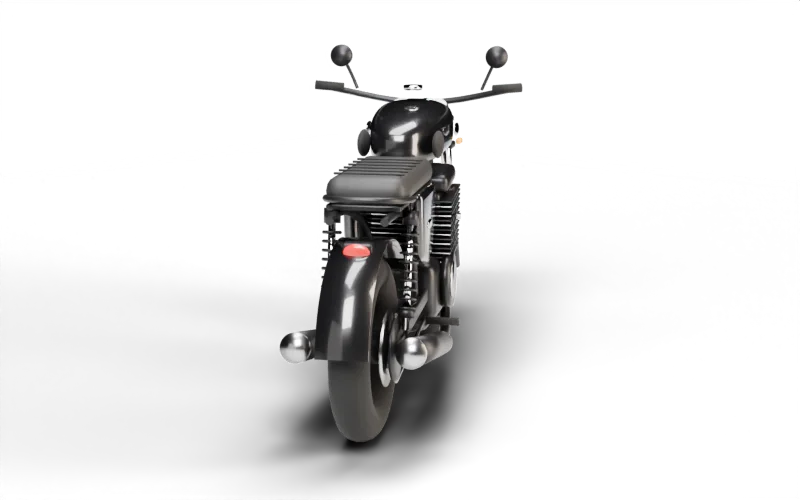
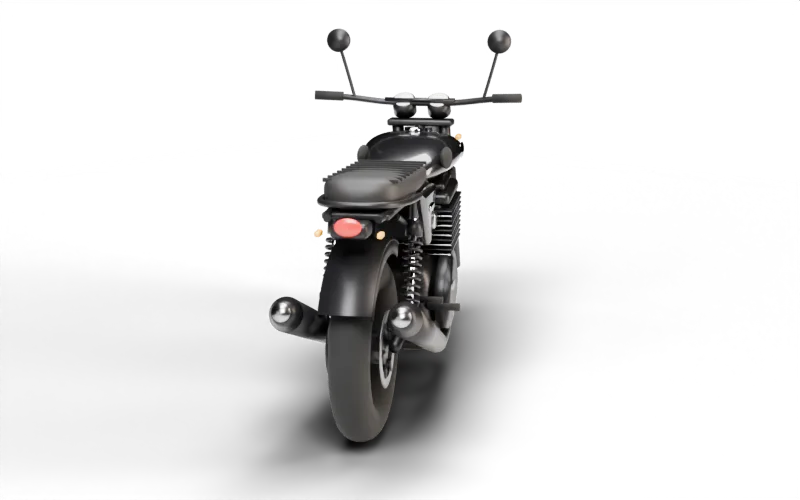
Rebuild the Interceptor from traced reference photos
The tank, seat, side covers, engine, headers, peashooters, fenders and
headlamp now follow side profiles traced from two CC BY-SA photos on
Wikimedia Commons, scaled to the 1,400 mm wheelbase and checked with an
overlay render. Tank and seat are lofted from measured cross-sections.
Re-rendered the hero rider sprite and the 24-frame turntable.

diff --git a/index.html b/index.html
@@ -103,8 +103,8 @@
         <path class="r3" d="M-40,345.8 C-36.0,345.9 -24.0,346.1 -16,346.2 C-8.0,346.3 0.0,346.5 8,346.7 C16.0,346.9 24.0,347.1 32,347.4 C40.0,347.6 48.0,347.9 56,348.1 C64.0,348.4 72.0,348.7 80,349.0 C88.0,349.3 96.0,349.6 104,349.9 C112.0,350.2 120.0,350.5 128,350.9 C136.0,351.2 144.0,351.5 152,351.8 C160.0,352.1 168.0,352.5 176,352.8 C184.0,353.1 192.0,353.4 200,353.7 C208.0,354.0 216.0,354.3 224,354.5 C232.0,354.8 240.0,355.1 248,355.3 C256.0,355.6 264.0,355.8 272,356.0 C280.0,356.2 288.0,356.4 296,356.6 C304.0,356.7 312.0,356.9 320,357.0 C328.0,357.1 336.0,357.2 344,357.3 C352.0,357.4 360.0,357.5 368,357.5 C376.0,357.6 384.0,357.6 392,357.6 C400.0,357.6 408.0,357.6 416,357.5 C424.0,357.5 432.0,357.4 440,357.3 C448.0,357.3 456.0,357.2 464,357.0 C472.0,356.9 480.0,356.8 488,356.6 C496.0,356.5 504.0,356.3 512,356.2 C520.0,356.0 528.0,355.8 536,355.6 C544.0,355.5 552.0,355.3 560,355.1 C568.0,354.9 576.0,354.7 584,354.5 C592.0,354.3 600.0,354.1 608,353.9 C616.0,353.7 624.0,353.5 632,353.4 C640.0,353.2 648.0,353.0 656,352.9 C664.0,352.7 672.0,352.6 680,352.5 C688.0,352.4 696.0,352.3 704,352.2 C712.0,352.1 720.0,352.1 728,352.0 C736.0,352.0 744.0,352.0 752,352.0 C760.0,352.0 768.0,352.1 776,352.1 C784.0,352.2 792.0,352.3 800,352.5 C808.0,352.6 816.0,352.8 824,353.0 C832.0,353.2 840.0,353.4 848,353.7 C856.0,353.9 864.0,354.2 872,354.6 C880.0,354.9 888.0,355.3 896,355.7 C904.0,356.1 912.0,356.5 920,357.0 C928.0,357.4 936.0,357.9 944,358.5 C952.0,359.0 960.0,359.5 968,360.1 C976.0,360.7 984.0,361.3 992,361.9 C1000.0,362.5 1008.0,363.2 1016,363.9 C1024.0,364.5 1032.0,365.2 1040,365.9 C1048.0,366.7 1056.0,367.4 1064,368.1 C1072.0,368.9 1080.0,369.6 1088,370.4 C1096.0,371.1 1104.0,371.9 1112,372.6 C1120.0,373.4 1128.0,374.2 1136,374.9 C1144.0,375.7 1152.0,376.4 1160,377.2 C1168.0,377.9 1176.0,378.7 1184,379.4 C1192.0,380.1 1200.0,380.9 1208,381.6 C1216.0,382.3 1224.0,382.9 1232,383.6 C1240.0,384.3 1248.0,384.9 1256,385.5 C1264.0,386.1 1272.0,386.7 1280,387.3 C1288.0,387.8 1296.0,388.4 1304,388.9 C1312.0,389.4 1320.0,389.8 1328,390.3 C1336.0,390.7 1344.0,391.1 1352,391.4 C1360.0,391.8 1368.0,392.1 1376,392.4 C1384.0,392.7 1392.0,392.9 1400,393.1 C1408.0,393.3 1416.0,393.5 1424,393.6 C1432.0,393.8 1440.0,393.9 1448,393.9 C1456.0,394.0 1464.0,394.0 1472,394.0 C1480.0,393.9 1488.0,393.9 1496,393.8 C1504.0,393.7 1512.0,393.6 1520,393.4 C1528.0,393.2 1536.0,393.0 1544,392.8 C1552.0,392.6 1560.0,392.4 1568,392.1 C1576.0,391.8 1584.0,391.5 1592,391.2 C1600.0,390.9 1608.0,390.5 1616,390.2 C1624.0,389.8 1636.0,389.2 1640,389.0 L1640,440 L-40,440 Z"/>
         <path id="road" d="M-40,345.8 C-36.0,345.9 -24.0,346.1 -16,346.2 C-8.0,346.3 0.0,346.5 8,346.7 C16.0,346.9 24.0,347.1 32,347.4 C40.0,347.6 48.0,347.9 56,348.1 C64.0,348.4 72.0,348.7 80,349.0 C88.0,349.3 96.0,349.6 104,349.9 C112.0,350.2 120.0,350.5 128,350.9 C136.0,351.2 144.0,351.5 152,351.8 C160.0,352.1 168.0,352.5 176,352.8 C184.0,353.1 192.0,353.4 200,353.7 C208.0,354.0 216.0,354.3 224,354.5 C232.0,354.8 240.0,355.1 248,355.3 C256.0,355.6 264.0,355.8 272,356.0 C280.0,356.2 288.0,356.4 296,356.6 C304.0,356.7 312.0,356.9 320,357.0 C328.0,357.1 336.0,357.2 344,357.3 C352.0,357.4 360.0,357.5 368,357.5 C376.0,357.6 384.0,357.6 392,357.6 C400.0,357.6 408.0,357.6 416,357.5 C424.0,357.5 432.0,357.4 440,357.3 C448.0,357.3 456.0,357.2 464,357.0 C472.0,356.9 480.0,356.8 488,356.6 C496.0,356.5 504.0,356.3 512,356.2 C520.0,356.0 528.0,355.8 536,355.6 C544.0,355.5 552.0,355.3 560,355.1 C568.0,354.9 576.0,354.7 584,354.5 C592.0,354.3 600.0,354.1 608,353.9 C616.0,353.7 624.0,353.5 632,353.4 C640.0,353.2 648.0,353.0 656,352.9 C664.0,352.7 672.0,352.6 680,352.5 C688.0,352.4 696.0,352.3 704,352.2 C712.0,352.1 720.0,352.1 728,352.0 C736.0,352.0 744.0,352.0 752,352.0 C760.0,352.0 768.0,352.1 776,352.1 C784.0,352.2 792.0,352.3 800,352.5 C808.0,352.6 816.0,352.8 824,353.0 C832.0,353.2 840.0,353.4 848,353.7 C856.0,353.9 864.0,354.2 872,354.6 C880.0,354.9 888.0,355.3 896,355.7 C904.0,356.1 912.0,356.5 920,357.0 C928.0,357.4 936.0,357.9 944,358.5 C952.0,359.0 960.0,359.5 968,360.1 C976.0,360.7 984.0,361.3 992,361.9 C1000.0,362.5 1008.0,363.2 1016,363.9 C1024.0,364.5 1032.0,365.2 1040,365.9 C1048.0,366.7 1056.0,367.4 1064,368.1 C1072.0,368.9 1080.0,369.6 1088,370.4 C1096.0,371.1 1104.0,371.9 1112,372.6 C1120.0,373.4 1128.0,374.2 1136,374.9 C1144.0,375.7 1152.0,376.4 1160,377.2 C1168.0,377.9 1176.0,378.7 1184,379.4 C1192.0,380.1 1200.0,380.9 1208,381.6 C1216.0,382.3 1224.0,382.9 1232,383.6 C1240.0,384.3 1248.0,384.9 1256,385.5 C1264.0,386.1 1272.0,386.7 1280,387.3 C1288.0,387.8 1296.0,388.4 1304,388.9 C1312.0,389.4 1320.0,389.8 1328,390.3 C1336.0,390.7 1344.0,391.1 1352,391.4 C1360.0,391.8 1368.0,392.1 1376,392.4 C1384.0,392.7 1392.0,392.9 1400,393.1 C1408.0,393.3 1416.0,393.5 1424,393.6 C1432.0,393.8 1440.0,393.9 1448,393.9 C1456.0,394.0 1464.0,394.0 1472,394.0 C1480.0,393.9 1488.0,393.9 1496,393.8 C1504.0,393.7 1512.0,393.6 1520,393.4 C1528.0,393.2 1536.0,393.0 1544,392.8 C1552.0,392.6 1560.0,392.4 1568,392.1 C1576.0,391.8 1584.0,391.5 1592,391.2 C1600.0,390.9 1608.0,390.5 1616,390.2 C1624.0,389.8 1636.0,389.2 1640,389.0" fill="none" stroke="none"/>
         <g id="rider" class="rider" transform="translate(-200 400)">
-          <path class="beam" d="M27.3,-43 L210,-84 L210,-4 Z" fill="url(#beamg)" filter="url(#beamblur)"/>
-          <circle class="lamp-dot" cx="27.3" cy="-43" r="2.6"/>
+          <path class="beam" d="M30.1,-38.4 L212,-80 L212,0 Z" fill="url(#beamg)" filter="url(#beamblur)"/>
+          <circle class="lamp-dot" cx="30.1" cy="-38.4" r="2.6"/>
           <!-- Blender render of me on the Interceptor 650 (Black Ray): 2.2 m x 1.8 m, ground at y = 0 -->
           <image class="bike" href="assets/interceptor/rider.webp" x="-52.3" y="-81.8" width="100" height="81.8"/>
         </g>

diff --git a/blender/interceptor.py b/blender/interceptor.py
@@ -27,6 +27,7 @@ def make_materials():
     M['black'] = material('satin black', (0.02, 0.02, 0.022), 0.6, 0.42)
     M['engine'] = material('engine', (0.03, 0.03, 0.032), 0.8, 0.38)
     M['fin'] = material('fin edge', (0.35, 0.35, 0.36), 1.0, 0.25)
+    M['disc'] = material('disc', (0.16, 0.16, 0.17), 1.0, 0.38)
     M['chrome'] = material('chrome', (0.9, 0.9, 0.92), 1.0, 0.06)
     M['rubber'] = material('rubber', (0.006, 0.006, 0.006), 0.0, 0.9)
     M['seat'] = material('seat', (0.012, 0.011, 0.011), 0.0, 0.6)
@@ -97,6 +98,11 @@ def tube(pts, r, m, res=12):
     cu.materials.append(m)
     return o
 
+def fender(center, R, width, a0, a1, m, skirt=0.04):
+    band(center, R, width, a0, a1, 0.006, m)
+    for y in (-width / 2, width / 2 - 0.004):
+        band((center[0], center[1] + y + 0.002, center[2]), R - skirt, 0.004, a0, a1, skirt, m)
+
 def band(center, R, width, a0, a1, thick, m, seg=40):
     """Curved fender: a strip of a cylinder around a wheel axle (XZ plane)."""
     bm = bmesh.new(); cx, cy, cz = center
@@ -116,7 +122,41 @@ def band(center, R, width, a0, a1, thick, m, seg=40):
     o = bpy.data.objects.new('band', me); bpy.context.collection.objects.link(o)
     return finish(o, m)
 
-# ---------- the bike
+def loft(stations, m, n=48, p=2.6, name='loft'):
+    """Skin superellipse cross-sections. Each station: (x, z_bottom, z_top, half_width)."""
+    bm = bmesh.new(); rings = []
+    for x, zb, zt, hw in stations:
+        zc, hz = (zb + zt) / 2, (zt - zb) / 2
+        ring = []
+        for k in range(n):
+            t = 2 * math.pi * k / n; c, s_ = math.cos(t), math.sin(t)
+            y = hw * math.copysign(abs(c) ** (2 / p), c); z = zc + hz * math.copysign(abs(s_) ** (2 / p), s_)
+            ring.append(bm.verts.new((x, y, z)))
+        rings.append(ring)
+    for a, b in zip(rings, rings[1:]):
+        for k in range(n):
+            bm.faces.new((a[k], a[(k + 1) % n], b[(k + 1) % n], b[k]))
+    bm.faces.new(rings[0][::-1]); bm.faces.new(rings[-1])
+    me = bpy.data.meshes.new(name); bm.to_mesh(me); bm.free()
+    o = bpy.data.objects.new(name, me); bpy.context.collection.objects.link(o)
+    o.modifiers.new('s', 'SUBSURF').levels = 2
+    return finish(o, m)
+
+def prism(pts, y0, y1, m, bevel=0.02, name='prism'):
+    """Extrude a side-view outline (x, z) between y0 and y1."""
+    bm = bmesh.new()
+    a = [bm.verts.new((x, y0, z)) for x, z in pts]; b = [bm.verts.new((x, y1, z)) for x, z in pts]
+    bm.faces.new(a[::-1]); bm.faces.new(b)
+    for i in range(len(pts)):
+        j = (i + 1) % len(pts); bm.faces.new((a[i], a[j], b[j], b[i]))
+    bmesh.ops.recalc_face_normals(bm, faces=bm.faces)
+    me = bpy.data.meshes.new(name); bm.to_mesh(me); bm.free()
+    o = bpy.data.objects.new(name, me); bpy.context.collection.objects.link(o)
+    if bevel:
+        mod = o.modifiers.new('b', 'BEVEL'); mod.width = bevel; mod.segments = 5; mod.limit_method = 'ANGLE'
+    return finish(o, m)
+
+# ---------- the bike (profiles traced from Wikimedia Commons side photos, 660 px/m)
 RA = Vector((0.0, 0, 0.315))    # rear axle
 FA = Vector((1.40, 0, 0.315))   # front axle
 HEAD = Vector((1.12, 0, 0.93))  # top of the steering head
@@ -132,9 +172,12 @@ def wheel(c, tire_r, tire_w, front):
         p2 = c + Vector((0.222 * math.cos(a + (0.06 if k % 2 else -0.06)), 0, 0.222 * math.sin(a + (0.06 if k % 2 else -0.06))))
         cyl(p1, p2, 0.0085, M['black'], 12)
     # brake disc
-    side = 0.085 if front else -0.075
-    cyl(c + Vector((0, side - 0.003, 0)), c + Vector((0, side + 0.003, 0)), 0.16 if front else 0.13, M['fin'], 48)
-    cyl(c + Vector((0, side - 0.004, 0)), c + Vector((0, side + 0.004, 0)), 0.07, M['black'], 32)
+    side = -0.085 if front else -0.075
+    R = 0.16 if front else 0.135
+    torus(c + Vector((0, side, 0)), R - 0.022, 0.022, M['disc'], 'Y', 64, 6).scale = (1, 1, 0.14)   # annular rotor
+    for k in range(6):                                                                              # carrier arms
+        a = 2 * math.pi * k / 6
+        cyl(c + Vector((0.06 * math.cos(a), side, 0.06 * math.sin(a))), c + Vector(((R - 0.03) * math.cos(a), side, (R - 0.03) * math.sin(a))), 0.008, M['black'], 8)
 
 def sidecover(s):
     pts = [(0.30, 0.79), (0.60, 0.79), (0.58, 0.60), (0.46, 0.50), (0.33, 0.55)]
@@ -154,127 +197,132 @@ def sidecover(s):
     sphere((0.45, s * 0.147, 0.66), (0.05, 0.004, 0.017), M['chrome'], 20, 8)
 
 def build_bike():
+    # camera side (-Y) is the bike's right side: clutch cover, rear disc
     wheel(RA, 0.315, 0.13, False)
     wheel(FA, 0.31, 0.10, True)
 
-    # front fork (raked), black lowers, chrome stanchions
-    fork_dir = (HEAD - FA).normalized()
+    # front fork at 24 deg rake, gaiters, clamps
+    fork_dir = Vector((-math.sin(math.radians(24)), 0, math.cos(math.radians(24))))
     for y in (-0.095, 0.095):
-        low = FA + Vector((0, y, 0)); mid = FA + fork_dir * 0.30 + Vector((0, y, 0)); top = FA + fork_dir * 0.72 + Vector((0, y, 0))
-        cyl(low, mid, 0.028, M['black'], 24)
-        cyl(mid, top, 0.021, M['chrome'], 24)
-    cyl(FA + Vector((0, -0.1, 0)), FA + Vector((0, 0.1, 0)), 0.014, M['chrome'], 16)  # axle
-    # triple clamps
-    for t in (0.60, 0.72):
-        p = FA + fork_dir * t
-        box(p, (0.08, 0.26, 0.025), M['black'], 0.008)
-    # front fender
-    band(FA, 0.35, 0.12, 20, 135, 0.006, M['paint'])
-    # brake caliper
-    box(FA + Vector((-0.1, 0.09, 0.1)), (0.07, 0.03, 0.05), M['black'], 0.01)
+        low = FA + Vector((0, y, 0)); mid = FA + fork_dir * 0.28 + Vector((0, y, 0)); top = FA + fork_dir * 0.70 + Vector((0, y, 0))
+        cyl(low, mid, 0.03, M['black'], 24)
+        cyl(mid, mid + fork_dir * 0.2, 0.034, M['rubber'], 24)                 # gaiter
+        cyl(mid + fork_dir * 0.2, top, 0.022, M['black'], 24)
+    cyl(FA + Vector((0, -0.1, 0)), FA + Vector((0, 0.1, 0)), 0.014, M['fin'], 16)
+    for t in (0.58, 0.70):
+        box(FA + fork_dir * t, (0.08, 0.26, 0.025), M['black'], 0.008)
+    fender(FA, 0.35, 0.13, 32, 122, M['black'])                                     # short front fender
+    box(FA + Vector((-0.1, -0.09, 0.1)), (0.07, 0.03, 0.05), M['black'], 0.01)
 
-    # headlamp with chrome bezel, twin pods, bars
-    hl = FA + fork_dir * 0.64 + Vector((0.09, 0, 0.05))
-    sphere(hl, (0.085, 0.085, 0.085), M['black'])
-    torus(hl + Vector((0.07, 0, 0)), 0.078, 0.009, M['chrome'], 'X', 48, 10)
-    lens = sphere(hl + Vector((0.068, 0, 0)), (0.012, 0.074, 0.074), M['glass'], 32, 12)
-    lens.name = 'headlamp_lens'
-    for y in (-0.07, 0.07):
-        pod = HEAD + Vector((-0.04, y, 0.075))
-        cyl(pod + Vector((0.02, 0, -0.03)), pod + Vector((-0.01, 0, 0.02)), 0.046, M['black'], 32)
-        cyl(pod + Vector((-0.008, 0, 0.018)), pod + Vector((-0.012, 0, 0.024)), 0.04, M['dial'], 32)
-    bar = [(1.03, -0.39, 1.10), (1.08, -0.30, 1.08), (1.12, -0.15, 1.04), (1.13, 0, 1.03), (1.12, 0.15, 1.04), (1.08, 0.30, 1.08), (1.03, 0.39, 1.10)]
-    tube(bar, 0.011, M['black'])
-    for s in (-1, 1):
-        cyl((1.04, s * 0.30, 1.095), (1.025, s * 0.41, 1.105), 0.017, M['rubber'], 16)   # grips
-        tube([(1.07, s * 0.25, 1.09), (1.08, s * 0.28, 1.16), (1.06, s * 0.31, 1.22)], 0.005, M['black'])  # mirror stalk
-        cyl((1.06, s * 0.31, 1.22), (1.045, s * 0.31, 1.22), 0.042, M['black'], 32)
-        box((1.3, s * 0.13, 0.86), (0.05, 0.02, 0.02), M['amber'], 0.006)  # indicators
-
-    # frame: double cradle + spine + subframe
-    for y in (-0.075, 0.075):
-        tube([tuple(HEAD + Vector((0, y * 0.3, -0.05))), (1.02, y, 0.62), (0.98, y, 0.34), (0.90, y, 0.20), (0.62, y, 0.20), (0.52, y, 0.34), (0.50, y, 0.55)], 0.016, M['black'])
-        tube([(0.50, y, 0.55), (0.40, y * 1.3, 0.74), (0.05, y * 1.4, 0.78), (-0.12, y * 1.2, 0.76)], 0.014, M['black'])
-    tube([tuple(HEAD), (0.95, 0, 0.86), (0.60, 0, 0.80), (0.46, 0, 0.74)], 0.02, M['black'])
-
-    # swingarm + chain guard + twin shocks
+    # 7-inch headlamp on ears, chrome ring, twin clocks, braced bars, round mirrors
+    hl = Vector((1.29, 0, 0.845))
+    sphere(hl, (0.075, 0.088, 0.088), M['black'])
+    torus(hl + Vector((0.06, 0, 0)), 0.084, 0.008, M['chrome'], 'X', 48, 10)
+    lens = sphere(hl + Vector((0.062, 0, 0)), (0.01, 0.08, 0.08), M['glass'], 32, 12); lens.name = 'headlamp_lens'
     for y in (-0.1, 0.1):
-        cyl((0.50, y, 0.36), (0.0, y, 0.315), 0.02, M['black'], 16)
-        top = Vector((0.12, y * 1.35, 0.77)); bot = Vector((0.04, y * 1.3, 0.37))
-        cyl(bot, top, 0.012, M['chrome'], 16)
-        d = (top - bot)
-        for k in range(9):
-            torus(bot + d * (0.18 + 0.075 * k), 0.028, 0.005, M['black'], 'Z', 24, 6).rotation_euler = Vector((0, 0, 1)).rotation_difference(d.normalized()).to_euler()
-        cyl(bot + d * 0.1, bot + d * 0.17, 0.03, M['black'], 16)
-        cyl(top - d * 0.14, top - d * 0.02, 0.028, M['black'], 16)
-    box((0.26, -0.13, 0.38), (0.42, 0.012, 0.05), M['black'], 0.01, (0, math.radians(-4), 0))
+        cyl(hl + Vector((-0.04, y, 0.02)), FA + fork_dir * 0.52 + Vector((0, y, 0)), 0.01, M['black'], 12)
+        pod = FA + fork_dir * 0.72 + Vector((0.02, y * 0.7, 0.05))
+        cyl(pod + Vector((0.025, 0, -0.03)), pod + Vector((-0.01, 0, 0.02)), 0.045, M['black'], 32)
+        cyl(pod + Vector((-0.008, 0, 0.018)), pod + Vector((-0.012, 0, 0.024)), 0.039, M['dial'], 32)
+        box(hl + Vector((0.02, y * 1.25, 0.03)), (0.05, 0.02, 0.02), M['amber'], 0.006)      # indicators
+    top = FA + fork_dir * 0.72
+    bar = [(1.02, -0.38, 1.06), (1.06, -0.30, 1.06), (1.10, -0.16, 1.03), (top.x, 0, top.z + 0.06), (1.10, 0.16, 1.03), (1.06, 0.30, 1.06), (1.02, 0.38, 1.06)]
+    tube(bar, 0.011, M['black'])
+    cyl((1.09, -0.14, 1.045), (1.09, 0.14, 1.045), 0.008, M['black'], 12)               # brace
+    for s in (-1, 1):
+        cyl((1.035, s * 0.30, 1.06), (1.015, s * 0.41, 1.065), 0.017, M['rubber'], 16)
+        tube([(1.06, s * 0.26, 1.06), (1.07, s * 0.29, 1.16), (1.05, s * 0.32, 1.27)], 0.005, M['black'])
+        cyl((1.055, s * 0.32, 1.28), (1.04, s * 0.32, 1.28), 0.045, M['black'], 32)
 
-    # engine: big air/oil-cooled parallel twin that fills the space under the tank
-    box((0.76, 0, 0.37), (0.40, 0.30, 0.24), M['engine'], 0.05)
-    box((0.66, 0, 0.30), (0.22, 0.22, 0.16), M['engine'], 0.05)          # gearbox case
-    cyl_c = Vector((0.85, 0, 0.60))
-    tilt = (0, math.radians(-8), 0)
-    box(cyl_c, (0.16, 0.27, 0.27), M['engine'], 0.02, tilt)
-    for k in range(14):
-        z = -0.12 + k * 0.0175
+    # frame: twin cradle, triangulated rear, seat rails
+    for y in (-0.075, 0.075):
+        tube([(1.12, y * 0.4, 0.93), (1.06, y, 0.62), (1.02, y, 0.32), (0.96, y, 0.19), (0.62, y, 0.17), (0.50, y, 0.30), (0.47, y, 0.42)], 0.016, M['black'])
+        tube([(0.47, y, 0.42), (0.40, y * 1.2, 0.62), (0.34, y * 1.4, 0.79)], 0.014, M['black'])
+        tube([(0.47, y, 0.42), (0.56, y * 1.2, 0.62), (0.62, y * 1.3, 0.79)], 0.014, M['black'])
+        tube([(0.70, y * 1.2, 0.80), (0.30, y * 1.45, 0.79), (-0.05, y * 1.45, 0.79), (-0.18, y * 1.1, 0.78)], 0.013, M['black'])
+        tube([(0.40, y * 1.3, 0.62), (0.19, y * 1.45, 0.70), (0.00, y * 1.45, 0.76)], 0.011, M['black'])
+    tube([(1.12, 0, 0.95), (0.95, 0, 0.84), (0.70, 0, 0.80)], 0.02, M['black'])
+
+    # swingarm, chain side, twin shocks with springs
+    for y in (-0.1, 0.1):
+        cyl((0.47, y, 0.40), (0.0, y, 0.315), 0.02, M['black'], 16)
+        bot = Vector((0.06, y * 1.35, 0.38)); tp = Vector((0.19, y * 1.35, 0.72))
+        cyl(bot, tp, 0.012, M['chrome'], 16)
+        d = tp - bot
+        for k in range(10):
+            torus(bot + d * (0.16 + 0.068 * k), 0.029, 0.0055, M['black'], 'Z', 24, 6).rotation_euler = Vector((0, 0, 1)).rotation_difference(d.normalized()).to_euler()
+        cyl(bot + d * 0.08, bot + d * 0.16, 0.032, M['black'], 16)
+        cyl(tp - d * 0.16, tp - d * 0.02, 0.03, M['black'], 16)
+    box((0.24, 0.13, 0.37), (0.44, 0.012, 0.05), M['black'], 0.01, (0, math.radians(-10), 0))
+
+    # engine: 648 cc air/oil-cooled parallel twin
+    loft([(0.54, 0.27, 0.44, 0.10), (0.58, 0.21, 0.50, 0.14), (0.70, 0.19, 0.52, 0.15), (0.86, 0.19, 0.52, 0.15), (0.94, 0.22, 0.48, 0.14), (0.975, 0.28, 0.42, 0.10)], M['engine'], p=3.0, name='crankcase')
+    bpy.ops.mesh.primitive_cylinder_add(vertices=64, radius=1, depth=0.03, location=(0.76, -0.16, 0.355))
+    cc = active(); cc.scale = (0.2, 0.15, 1); cc.rotation_euler = (math.pi / 2, 0, 0); finish(cc, M['engine'])  # clutch cover (right)
+    bpy.ops.mesh.primitive_cylinder_add(vertices=64, radius=1, depth=0.006, location=(0.76, -0.177, 0.355))
+    cc2 = active(); cc2.scale = (0.17, 0.12, 1); cc2.rotation_euler = (math.pi / 2, 0, 0); finish(cc2, M['black'])
+    sphere((0.80, -0.181, 0.36), (0.05, 0.004, 0.018), M['fin'], 20, 8)                       # cover script plate
+    cyl((0.70, 0.15, 0.36), (0.70, 0.18, 0.36), 0.11, M['engine'], 48)                  # alternator (left)
+    cyl_c = Vector((0.84, 0, 0.60)); tilt = (0, math.radians(-8), 0)
+    box(cyl_c, (0.17, 0.28, 0.20), M['engine'], 0.02, tilt)
+    for k in range(10):
+        z = -0.085 + k * 0.018
         off = Vector((math.sin(math.radians(8)) * z, 0, z))
-        box(cyl_c + off, (0.245, 0.36, 0.0055), M['fin'] if k % 2 == 0 else M['engine'], 0.002, tilt)
-    box(cyl_c + Vector((0.02, 0, 0.165)), (0.21, 0.33, 0.075), M['engine'], 0.03, tilt)   # rocker cover
-    for s_ in (-1, 1):
-        cyl((0.92, s_ * 0.12, 0.61), (0.92, s_ * 0.19, 0.61), 0.012, M['fin'], 12)       # spark plug caps
-    cyl((0.70, 0.15, 0.38), (0.70, 0.19, 0.38), 0.115, M['engine'], 48)     # clutch cover
-    cyl((0.70, 0.19, 0.38), (0.70, 0.196, 0.38), 0.08, M['fin'], 48)
-    cyl((0.76, -0.15, 0.39), (0.76, -0.185, 0.39), 0.105, M['engine'], 48)  # alternator cover
-    cyl((0.76, -0.185, 0.39), (0.76, -0.19, 0.39), 0.07, M['fin'], 48)
+        box(cyl_c + off, (0.26, 0.37, 0.006), M['fin'] if k % 2 == 0 else M['engine'], 0.002, tilt)
+    box(cyl_c + Vector((0.015, 0, 0.115)), (0.24, 0.35, 0.05), M['engine'], 0.02, tilt)   # head
+    box(cyl_c + Vector((0.02, 0, 0.155)), (0.19, 0.30, 0.035), M['engine'], 0.015, tilt)  # rocker cover
+    box((0.66, 0, 0.62), (0.12, 0.22, 0.12), M['black'], 0.03)                          # throttle bodies
+    box((0.64, -0.12, 0.64), (0.06, 0.04, 0.06), M['fin'], 0.01)                        # breather
+    box((0.75, 0, 0.17), (0.3, 0.2, 0.05), M['engine'], 0.02)                           # sump
 
-    # exhausts: headers down the front, peashooter mufflers
-    for y in (-0.09, 0.09):
-        s = 1 if y > 0 else -1
-        tube([(0.94, y, 0.60), (1.00, y, 0.52), (1.00, y * 1.2, 0.30), (0.92, s * 0.14, 0.18), (0.62, s * 0.17, 0.18), (0.42, s * 0.19, 0.22)], 0.021, M['black'])
-        cyl((0.44, s * 0.19, 0.225), (-0.18, s * 0.19, 0.35), 0.042, M['black'], 32, 0.05)
-        cyl((-0.18, s * 0.19, 0.35), (-0.2, s * 0.19, 0.354), 0.05, M['fin'], 32)
-
-    # fuel tank: deformed sphere, narrower and lower at the back
-    bpy.ops.mesh.primitive_uv_sphere_add(segments=64, ring_count=32, radius=1, location=(0, 0, 0))
-    tank = active()
-    sp = lambda t, e: math.copysign(abs(t) ** e, t)
-    for v in tank.data.vertices:
-        x, y, z = v.co
-        x, y = sp(x, 0.8), sp(y, 0.75)
-        z = sp(z, 0.55) if z > 0 else z
-        rear = (1 - x) / 2
-        y *= 1 - 0.3 * rear ** 1.4
-        if z > 0: z *= 0.72
-        if z < -0.3: z = -0.3 + (z + 0.3) * 0.25
-        z -= 0.14 * rear ** 2
-        v.co = (x, y, z)
-    tank.scale = (0.30, 0.165, 0.17); tank.location = (0.855, 0, 0.935); tank.rotation_euler = (0, math.radians(-3), 0)
-    finish(tank, M['paint'])
+    # exhausts: headers wrap the front of the engine, long upswept peashooters
     for s in (-1, 1):
-        sphere((0.67, s * 0.14, 0.92), (0.075, 0.02, 0.05), M['rubber'], 24, 12)   # knee pads
-        sphere((0.92, s * 0.172, 0.95), (0.055, 0.005, 0.024), M['chrome'], 24, 10)    # badge
-    cyl((0.93, 0, 1.10), (0.93, 0, 1.115), 0.035, M['chrome'], 32)                  # filler cap
+        y1 = s * 0.075
+        tube([(0.95, y1, 0.57), (1.02, y1, 0.53), (1.045, s * 0.10, 0.42), (1.03, s * 0.12, 0.28), (0.97, s * 0.13, 0.17), (0.85, s * 0.14, 0.14), (0.66, s * 0.15, 0.15), (0.46, s * 0.17, 0.215)], 0.021, M['black'])
+        cyl((0.47, s * 0.17, 0.215), (0.43, s * 0.172, 0.23), 0.028, M['fin'], 24)          # clamp
+        cyl((0.43, s * 0.172, 0.23), (-0.30, s * 0.19, 0.49), 0.04, M['black'], 40, 0.056)
+        cyl((-0.30, s * 0.19, 0.49), (-0.36, s * 0.19, 0.51), 0.056, M['black'], 40, 0.03)  # reverse cone
+        cyl((-0.36, s * 0.19, 0.51), (-0.365, s * 0.19, 0.512), 0.03, M['fin'], 24)
 
-    # seat: long flat bench, tail with lamp, grab rail, side panels
-    box((0.30, 0, 0.835), (0.62, 0.27, 0.1), M['seat'], 0.045)
-    box((0.30, 0, 0.787), (0.64, 0.25, 0.02), M['black'], 0.006)
-    for k in range(6):                                                        # seat ribs
-        box((0.08 + k * 0.075, 0, 0.887), (0.006, 0.24, 0.006), M['rubber'], 0.002)
-    band(RA, 0.36, 0.17, 45, 172, 0.006, M['paint'])
-    box((-0.10, 0, 0.66), (0.05, 0.1, 0.06), M['black'], 0.01)
-    sphere((-0.13, 0, 0.66), (0.012, 0.045, 0.03), M['tail'], 20, 10)
-    tube([(0.12, -0.14, 0.80), (-0.05, -0.15, 0.82), (-0.13, 0, 0.83), (-0.05, 0.15, 0.82), (0.12, 0.14, 0.80)], 0.011, M['black'])
+    # fuel tank: lofted from traced side profile (flat bottom, domed top, narrow tail)
+    loft([(0.585, 0.795, 0.805, 0.055), (0.61, 0.78, 0.845, 0.105), (0.66, 0.772, 0.88, 0.138), (0.74, 0.77, 0.912, 0.165),
+          (0.84, 0.772, 0.932, 0.183), (0.94, 0.778, 0.94, 0.189), (1.02, 0.79, 0.932, 0.183), (1.08, 0.805, 0.91, 0.165),
+          (1.12, 0.825, 0.88, 0.121), (1.14, 0.845, 0.86, 0.044)], M['paint'], p=2.4, name='tank')
     for s in (-1, 1):
-        sidecover(s)
-        cyl((0.54, s * 0.12, 0.28), (0.54, s * 0.24, 0.28), 0.014, M['rubber'], 16)   # rider pegs
-    # chain + sprocket (left)
-    cyl((0.0, -0.11, 0.315), (0.0, -0.1, 0.315), 0.11, M['black'], 48)
-    tube([(0.0, -0.105, 0.43), (0.62, -0.105, 0.36)], 0.006, M['fin'])
-    tube([(0.0, -0.105, 0.2), (0.62, -0.105, 0.28)], 0.006, M['fin'])
+        sphere((0.76, s * 0.158, 0.858), (0.10, 0.018, 0.042), M['rubber'], 32, 12).rotation_euler = (0, math.radians(8), 0)  # knee pads
+        sphere((1.0, s * 0.182, 0.86), (0.045, 0.006, 0.03), M['chrome'], 24, 10)                                       # badge
+    cyl((0.95, 0, 0.935), (0.95, 0, 0.95), 0.035, M['chrome'], 32)                                                       # filler cap
+
+    # seat: long flat bench with a small kick at the back, pleated top
+    loft([(-0.13, 0.80, 0.86, 0.04), (-0.10, 0.79, 0.90, 0.11), (-0.02, 0.79, 0.90, 0.135), (0.15, 0.79, 0.885, 0.14),
+          (0.35, 0.795, 0.875, 0.14), (0.52, 0.80, 0.868, 0.13), (0.60, 0.805, 0.85, 0.09), (0.63, 0.81, 0.83, 0.04)], M['seat'], p=3.2, name='seat')
+    for k in range(9):
+        x = -0.06 + k * 0.07
+        box((x, 0, 0.885 - 0.012 * (k / 8)), (0.005, 0.25, 0.012), M['rubber'], 0.002)
+    box((0.25, 0, 0.78), (0.78, 0.22, 0.02), M['black'], 0.006)                                                        # seat pan
+
+    # side covers: inverted triangles under the seat front
+    for s in (-1, 1):
+        prism([(0.33, 0.785), (0.63, 0.785), (0.495, 0.56)], s * 0.10, s * 0.145, M['paint'], 0.022, 'cover')
+        sphere((0.49, s * 0.148, 0.715), (0.055, 0.004, 0.016), M['chrome'], 20, 8)
+        cyl((0.56, s * 0.12, 0.33), (0.56, s * 0.24, 0.33), 0.014, M['rubber'], 16)       # rider pegs
+        cyl((0.28, s * 0.14, 0.42), (0.28, s * 0.22, 0.42), 0.012, M['rubber'], 16)       # pillion pegs
+
+    # tail: short rear fender, lamp, indicators, grab rail
+    fender(RA, 0.36, 0.17, 64, 150, M['black'], 0.045)
+    box((-0.20, 0, 0.75), (0.1, 0.12, 0.05), M['black'], 0.015)
+    sphere((-0.255, 0, 0.765), (0.012, 0.045, 0.03), M['tail'], 20, 10)
+    for s in (-1, 1):
+        box((-0.23, s * 0.1, 0.74), (0.045, 0.018, 0.018), M['amber'], 0.006)
+    tube([(0.20, -0.15, 0.80), (0.0, -0.155, 0.81), (-0.15, -0.12, 0.82), (-0.17, 0, 0.82), (-0.15, 0.12, 0.82), (0.0, 0.155, 0.81), (0.20, 0.15, 0.80)], 0.011, M['black'])
+    # chain + sprocket on the left (+Y)
+    cyl((0.0, 0.11, 0.315), (0.0, 0.1, 0.315), 0.11, M['black'], 48)
+    tube([(0.0, 0.105, 0.43), (0.62, 0.105, 0.36)], 0.006, M['fin'])
+    tube([(0.0, 0.105, 0.2), (0.62, 0.105, 0.28)], 0.006, M['fin'])
 
 def build_rider():
     # hips over the seat, relaxed upright posture, hands on the grips, boots on the pegs
-    hip = Vector((0.34, 0, 0.93)); chest = Vector((0.45, 0, 1.28)); neck = Vector((0.49, 0, 1.40))
+    hip = Vector((0.36, 0, 0.97)); chest = Vector((0.46, 0, 1.31)); neck = Vector((0.50, 0, 1.43))
     capsule(hip, chest, 0.15, M['jacket'], 0.17)
     sphere(chest + Vector((0, 0, 0.02)), (0.13, 0.2, 0.13), M['jacket'])
     capsule(chest, neck, 0.06, M['jacket'])
@@ -283,14 +331,14 @@ def build_rider():
     sphere(head + Vector((0.075, 0, 0.0)), (0.075, 0.105, 0.06), M['visor'], 32, 12)
     for s in (-1, 1):
         sh = chest + Vector((0.0, s * 0.19, 0.06))
-        el = Vector((0.72, s * 0.3, 1.08))
-        grip = Vector((1.03, s * 0.35, 1.10))
+        el = Vector((0.74, s * 0.3, 1.1))
+        grip = Vector((1.02, s * 0.35, 1.065))
         capsule(sh, el, 0.055, M['jacket'], 0.048)
         capsule(el, grip, 0.045, M['jacket'], 0.04)
         sphere(grip, (0.045, 0.045, 0.045), M['glove'])
         hp = hip + Vector((0.02, s * 0.12, 0.0))
-        knee = Vector((0.70, s * 0.19, 0.78))
-        ankle = Vector((0.56, s * 0.2, 0.33))
+        knee = Vector((0.70, s * 0.19, 0.80))
+        ankle = Vector((0.57, s * 0.21, 0.36))
         capsule(hp, knee, 0.085, M['jeans'], 0.07)
         capsule(knee, ankle, 0.065, M['jeans'], 0.05)
         box(ankle + Vector((0.05, 0, -0.04)), (0.2, 0.09, 0.09), M['boot'], 0.03)
@@ -352,6 +400,9 @@ if __name__ == '__main__':
         camera((0.65, -8, 0.9), (0.65, 0, 0.9), ortho=2.2)
         w = int(argv[3]) if len(argv) > 3 else 880
         render(out, w, round(w * 1.8 / 2.2), 64, fmt=argv[4] if len(argv) > 4 else 'PNG')
+    elif view == 'overlay':
+        camera((0.677, -8, 0.626), (0.677, 0, 0.626), ortho=1600 / 660)
+        render(out, 1600, 1255, 16)
     elif view == 'spin':
         # turntable: rotate the bike about its centre, camera and lights fixed
         frames = int(argv[2]); only = [int(a) for a in argv[3].split(',')] if len(argv) > 3 and argv[3] != 'all' else range(frames)

diff --git a/README.md b/README.md
@@ -33,7 +33,7 @@ resume/             resume source (resume.html), local IBM Plex fonts, build scr
 
 ## The Interceptor model
 
-`blender/interceptor.py` builds a Royal Enfield Interceptor 650 in the Black Ray colours from primitives and renders it with Cycles. Blender 5.2 is at `/Applications/Blender.app`. EEVEE renders black in headless sessions here, so the script uses Cycles on the CPU.
+`blender/interceptor.py` builds a Royal Enfield Interceptor 650 in the Black Ray colours and renders it with Cycles. The tank and seat are lofted from cross-sections, and every part's side profile was traced from two CC BY-SA 4.0 photos on Wikimedia Commons by Auge=mit ("Royal Enfield 650 Interceptor A-Seite noBG" and "B-Seite noBG"), scaled to the bike's 1,400 mm wheelbase. The photos were used only as modelling reference and are not published on the site. The `overlay` view renders at the photo's scale (660 px/m, rear axle at 353, 833 in a 1600 px frame) so the model can be checked against it. Blender 5.2 is at `/Applications/Blender.app`. EEVEE renders black in headless sessions here, so the script uses Cycles on the CPU.
 
 ```sh
 B=/Applications/Blender.app/Contents/MacOS/Blender
